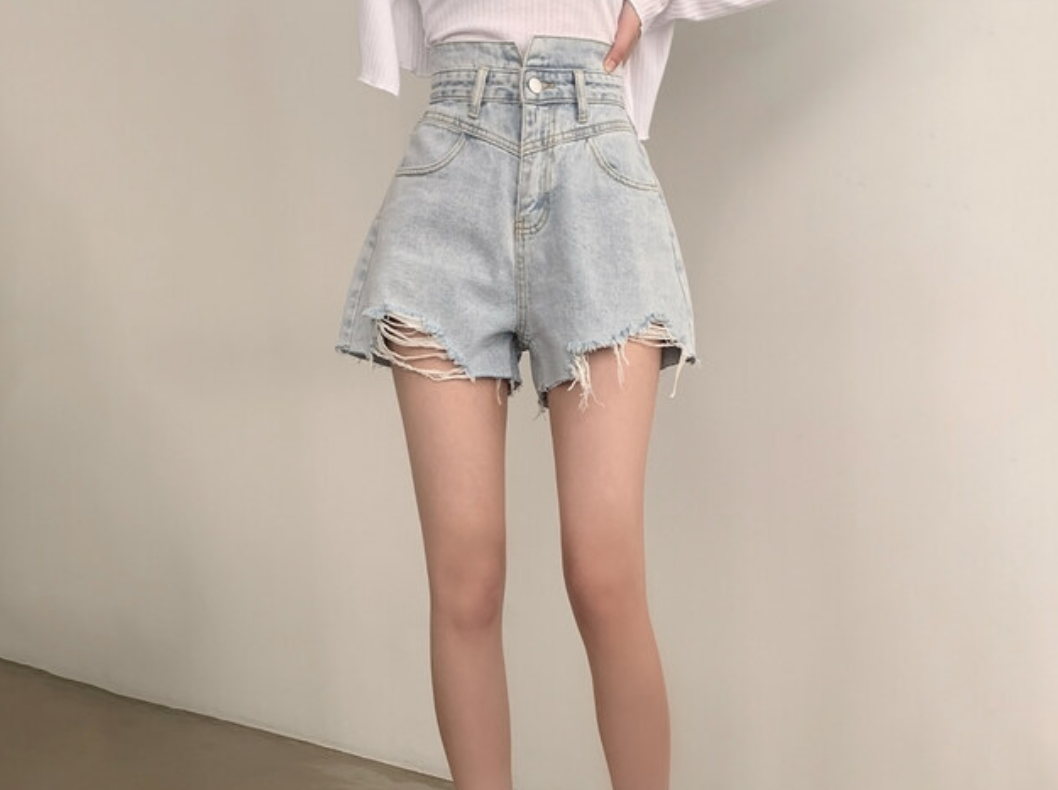
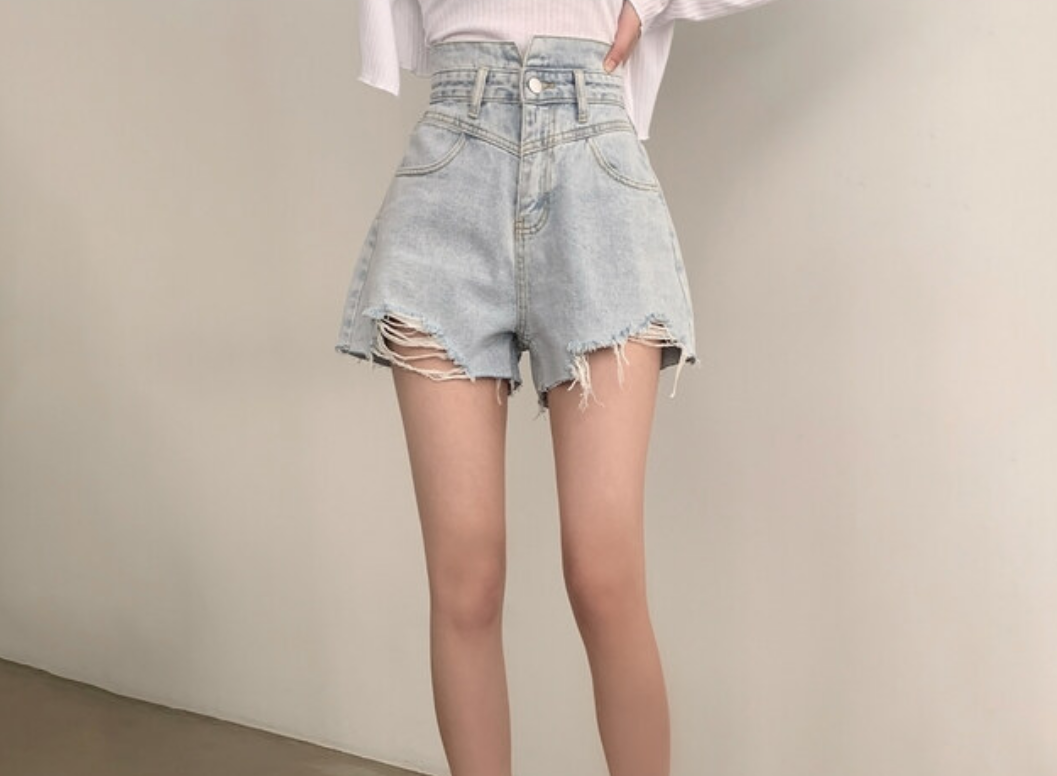
휴가룩 이미지 마우스호버

diff --git a/index.html b/index.html
@@ -47,7 +47,10 @@
                 </li>
                 <li class="nav-item">
                     <a class="nav-link" href="#new">NEW</a>
-                  </li>
+                </li>
+                <li class="nav-item">
+                    <a class="nav-link" href="#made">MADE</a>
+                </li>
                 <li class="nav-item">
                   <a class="nav-link" href="#login">LOGIN</a>
                 </li>
@@ -104,7 +107,7 @@
         <div class="row">
             <div class="text-center mt-5 mb-5">
                 <h3 class="item-title">NEW ARRIVALS</h3>
-                <p class="item-description">따끈따끈 신상아이템</p>
+                <p class="item-description">따끈따끈 신상 10%할인</p>
             </div>
         </div>
 
@@ -241,7 +244,7 @@
     <!-- made상품 -->
     <section class="container made-section"> <!-- made-section 배경 수정해야함 -->
         <div class="row">
-            <div class="text-center mt-5 mb-5">
+            <div class="text-center mt-4 mb-4">
                 <h3 class="item-title">MADE</h3>
                 <p class="item-description">Today's look의 무드가 담긴 특별한 제작 아이템</p>
             </div>
@@ -314,7 +317,7 @@
     </section>
 
     <!-- 휴가룩 -->
-    <section class="container"> 
+    <section class="container vacation-look"> 
         <div class="row">
             <div class="text-center mt-5 mb-5">
                 <h3 class="item-title">휴가룩🏝</h3>
@@ -324,7 +327,9 @@
         <div class="row">
             <div class="col-md-3 col-sm-12 mb-3">
                 <div class="card vacation-card">
-                    <img src="images/vacation_look/vacation_1.png" class="card-img-top" alt="휴가룩1">
+                    <div class="image-container">
+                        <img src="images/vacation_look/vacation_1.png" class="card-img-top" alt="휴가룩1">
+                    </div>
                     <div class="card-body">
                         <div class="card-text">#2090 잔꽃 미니 나시 원피스</div>
                         <div class="price-box">
@@ -339,7 +344,9 @@
             </div>
             <div class="col-md-3 col-sm-12 mb-3">
                 <div class="card vacation-card">
-                    <img src="images/vacation_look/vacation_2.jpg" class="card-img-top" alt="휴가룩2">
+                    <div class="image-container">
+                        <img src="images/vacation_look/vacation_2.jpg" class="card-img-top" alt="휴가룩2">
+                    </div>
                     <div class="card-body">
                         <div class="card-text">#2073 팅커벨 미니 원피스</div>
                         <div class="price-box">
@@ -353,7 +360,9 @@
             </div>
             <div class="col-md-3 col-sm-12 mb-3">
                 <div class="card vacation-card">
-                    <img src="images/vacation_look/vacation_3.jpg" class="card-img-top" alt="휴가룩3">
+                    <div class="image-container">
+                        <img src="images/vacation_look/vacation_3.jpg" class="card-img-top" alt="휴가룩3">
+                </div>
                     <div class="card-body">
                         <div class="card-text">#2085 데님 미니 나시 원피스</div>
                         <div class="price-box">
@@ -369,7 +378,9 @@
 
             <div class="col-md-3 col-sm-12 mb-3">
                 <div class="card vacation-card">
-                    <img src="images/vacation_look/vacation_4.png" class="card-img-top" alt="휴가룩3">
+                    <div class="image-container">
+                        <img src="images/vacation_look/vacation_4.png" class="card-img-top" alt="휴가룩3">
+                    </div>
                     <div class="card-body">
                         <div class="card-text">#2010 플라워 미니 원피스</div>
                         <div class="price-box">
@@ -385,7 +396,9 @@
 
             <div class="col-md-3 col-sm-12 mb-3">
                 <div class="card vacation-card">
-                    <img src="images/vacation_look/vacation_5.png" class="card-img-top" alt="휴가룩3">
+                    <div class="image-container">
+                        <img src="images/vacation_look/vacation_5.png" class="card-img-top" alt="휴가룩3">
+                    </div>
                     <div class="card-body">
                         <div class="card-text">#2022 나비패턴 미니 원피스</div>
                         <div class="price-box">
@@ -400,7 +413,9 @@
 
             <div class="col-md-3 col-sm-12 mb-3">
                 <div class="card vacation-card">
-                    <img src="images/vacation_look/vacation_6.jpg" class="card-img-top" alt="휴가룩3">
+                    <div class="image-container">
+                        <img src="images/vacation_look/vacation_6.jpg" class="card-img-top" alt="휴가룩3">
+                    </div>
                     <div class="card-body">
                         <div class="card-text">#3001 데님 뷔스티에 셋업</div>
                         <div class="price-box">
@@ -416,7 +431,9 @@
 
             <div class="col-md-3 col-sm-12 mb-3">
                 <div class="card vacation-card">
-                    <img src="images/vacation_look/vacation_7.png" class="card-img-top" alt="휴가룩3">
+                    <div class="image-container">
+                        <img src="images/vacation_look/vacation_7.png" class="card-img-top" alt="휴가룩3">
+                    </div>
                     <div class="card-body">
                         <div class="card-text">#3013 데님 숏 팬츠</div>
                         <div class="price-box">
@@ -431,7 +448,9 @@
 
             <div class="col-md-3 col-sm-12 mb-3">
                 <div class=" card vacation-card">
-                    <img src="images/vacation_look/vacation_8.png" class="card-img-top" alt="휴가룩4">
+                    <div class="image-container">
+                        <img src="images/vacation_look/vacation_8.png" class="card-img-top" alt="휴가룩4">
+                    </div>
                     <div class="card-body">
                         <div class="card-text">#3021 트레이닝 숏 팬츠</div>
                         <div class="price-box">

diff --git a/style.css b/style.css
@@ -7,7 +7,7 @@ body {
 }
 
 section {
-    margin-top: 65px;
+    margin-top: 50px;
 }
 
 header {
@@ -123,11 +123,25 @@ nav.navbar {
     display: inline-block;
 }
 
+
+/* 휴가룩 */
+.vacation-look .image-container {
+    overflow: hidden;
+}
+
+.vacation-look .image-container img {
+    transition: transform 0.3s ease;
+}
+
+.vacation-look .image-container img:hover {
+    transform: scale(1.1);
+}
+
 /* footer */
 footer {
     background-color: #BBC3A4;
-    font-size: 16px;
-    margin-top: 80px; 
+    font-size: 15px;
+    margin-top: 100px; 
 }
 
 .first-line {
